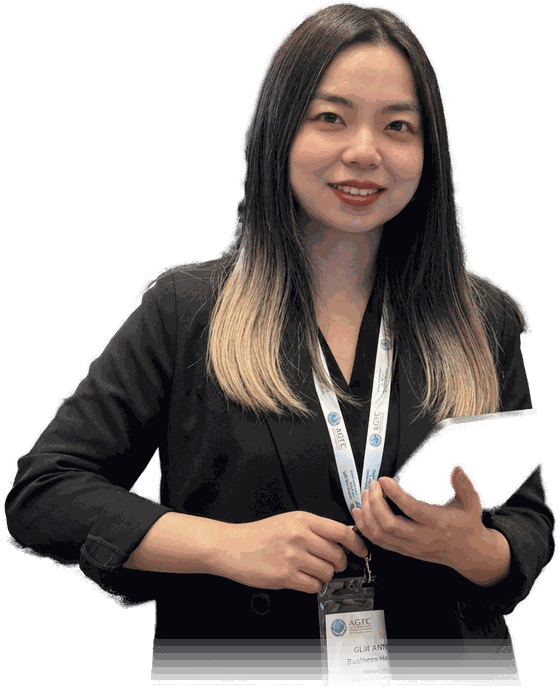
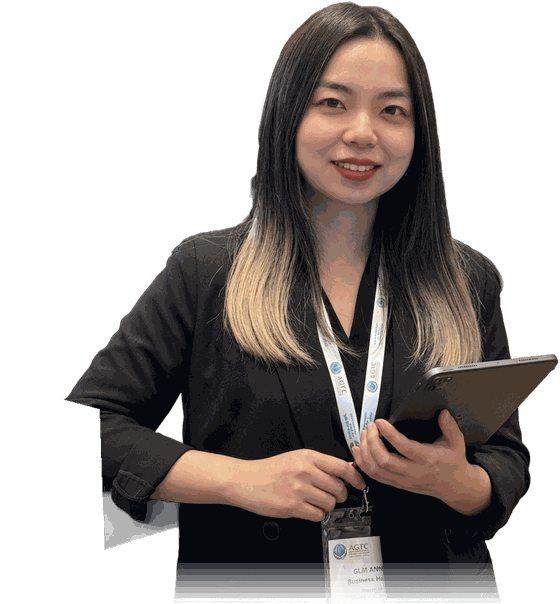
Meet Chloe cutout v2: isnet segmentation keeps the tablet, table edge erased

Changed region(s): [[0.0, 0.0, 1.0, 1.0]]

diff --git a/site/index.html b/site/index.html
@@ -90,7 +90,7 @@ NO free trial anywhere (level test only). Levels are Newbie / Breaker / Speaker.
         <figure class="meet">
           <span class="meet-word" aria-hidden="true">Chloe</span>
           <span class="meet-script" aria-hidden="true">Meet</span>
-          <img class="meet-photo" src="assets/chloe-cutout-560.png" alt="Chloe" width="560" height="687" fetchpriority="high">
+          <img class="meet-photo" src="assets/chloe-cutout-560.png" alt="Chloe" width="560" height="604" fetchpriority="high">
         </figure>
         <p class="hero-name">Meet Chloe</p>
         <p class="hero-cred">Từng sống và học tập tại Thụy Sĩ</p>

diff --git a/site/index.en.html b/site/index.en.html
@@ -85,7 +85,7 @@
         <figure class="meet">
           <span class="meet-word" aria-hidden="true">Chloe</span>
           <span class="meet-script" aria-hidden="true">Meet</span>
-          <img class="meet-photo" src="assets/chloe-cutout-560.png" alt="Chloe" width="560" height="687" fetchpriority="high">
+          <img class="meet-photo" src="assets/chloe-cutout-560.png" alt="Chloe" width="560" height="604" fetchpriority="high">
         </figure>
         <p class="hero-name">Meet Chloe</p>
         <p class="hero-cred">Lived and studied in Switzerland</p>
